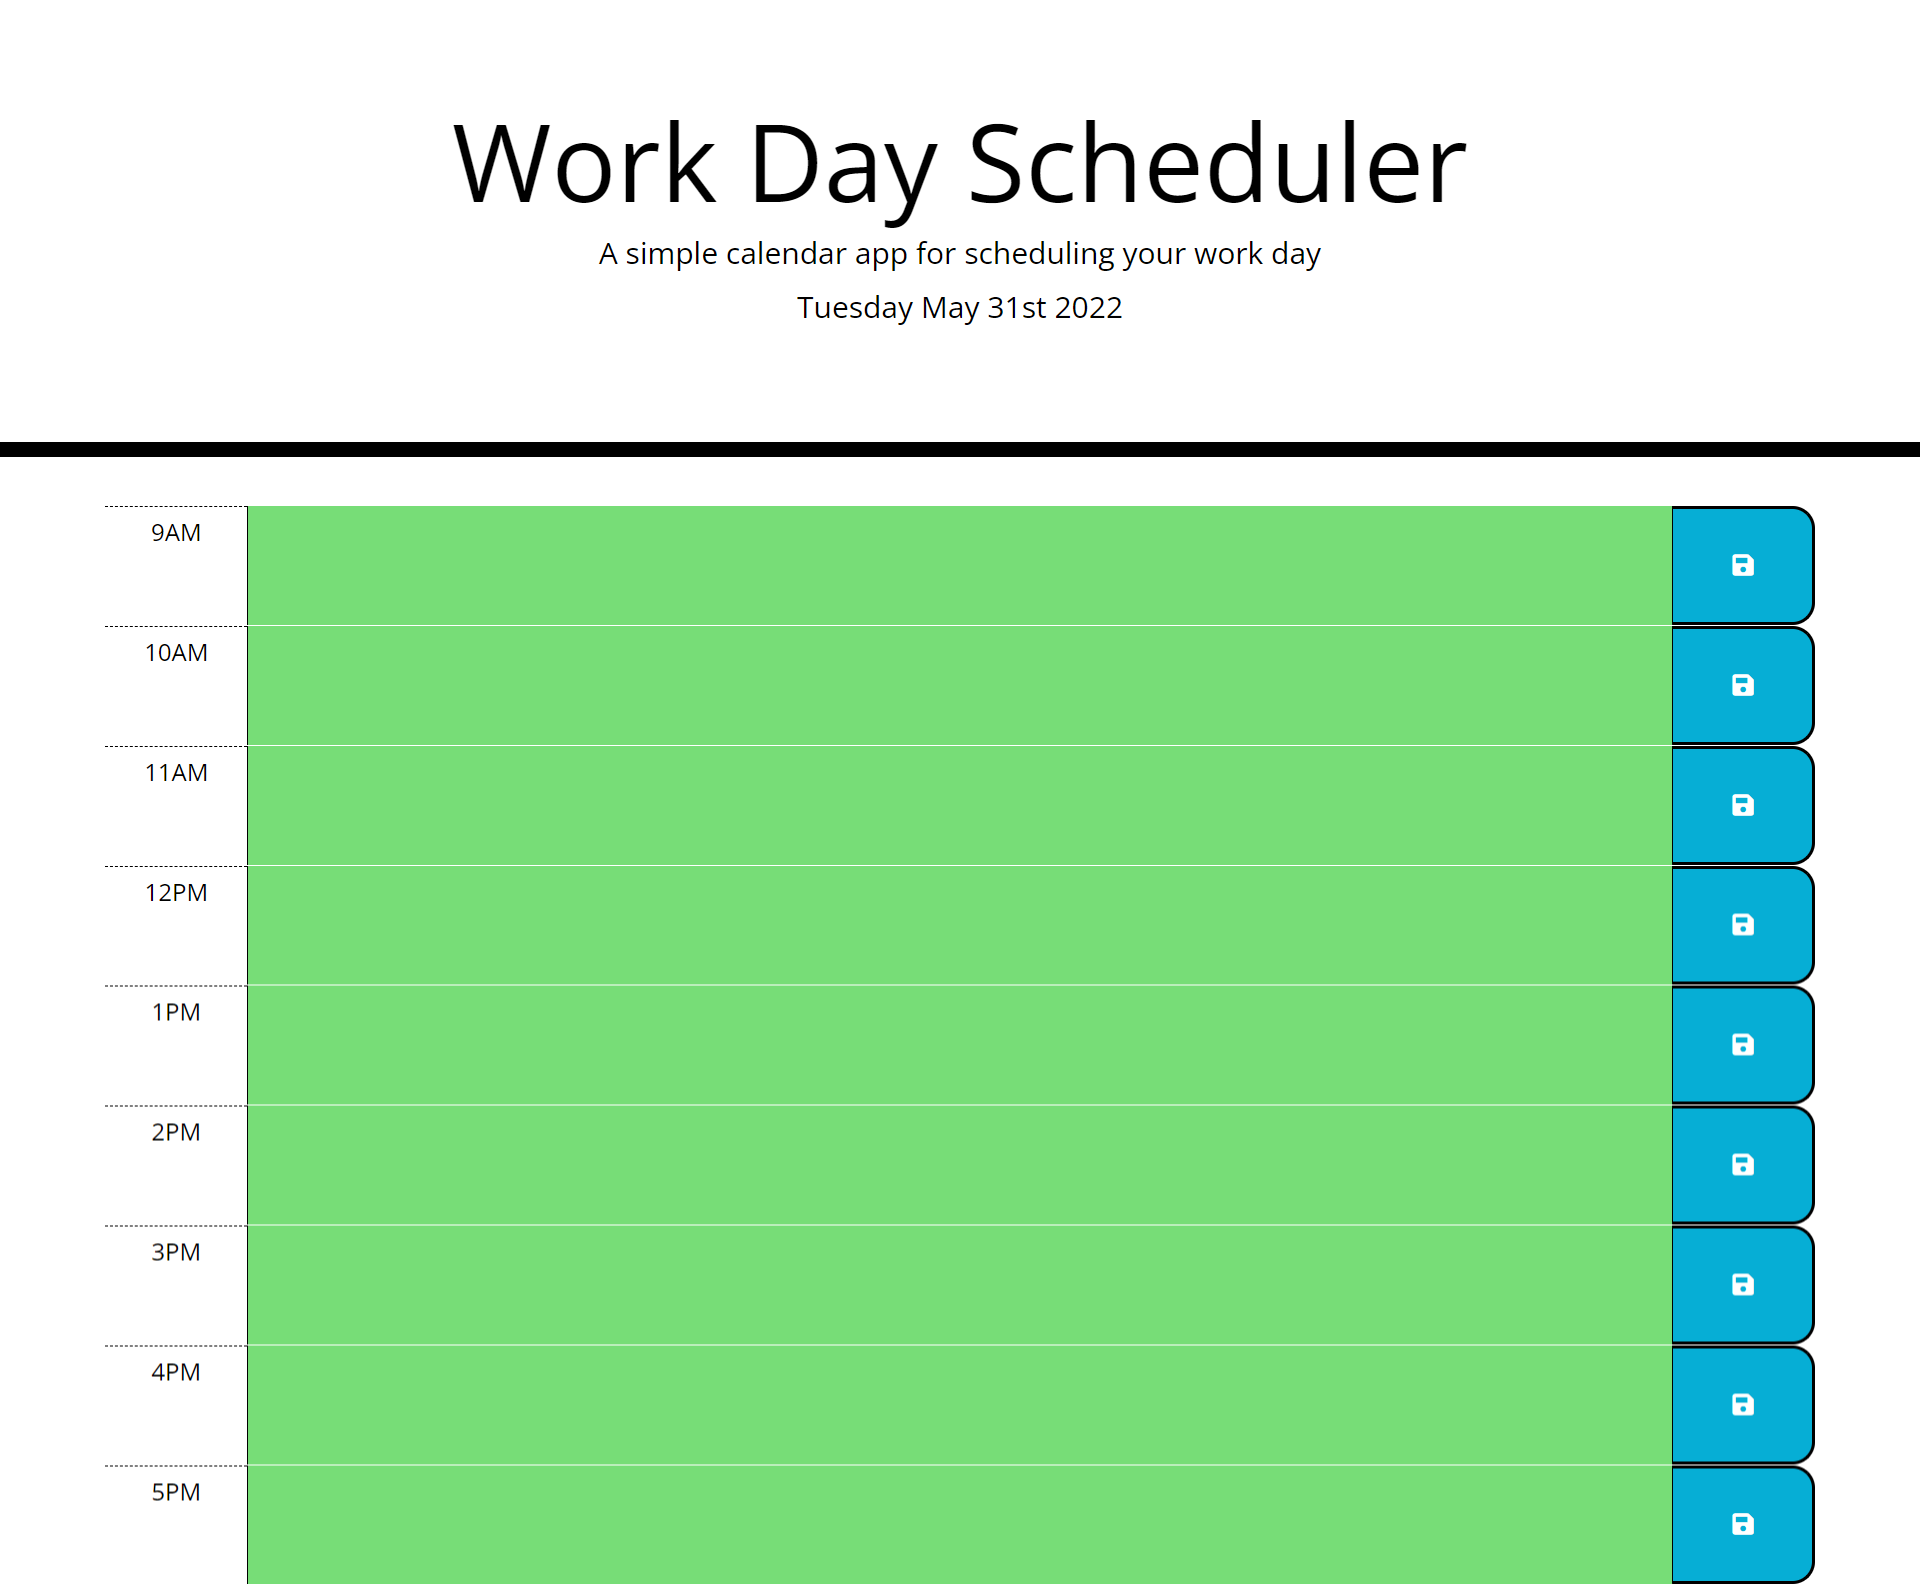
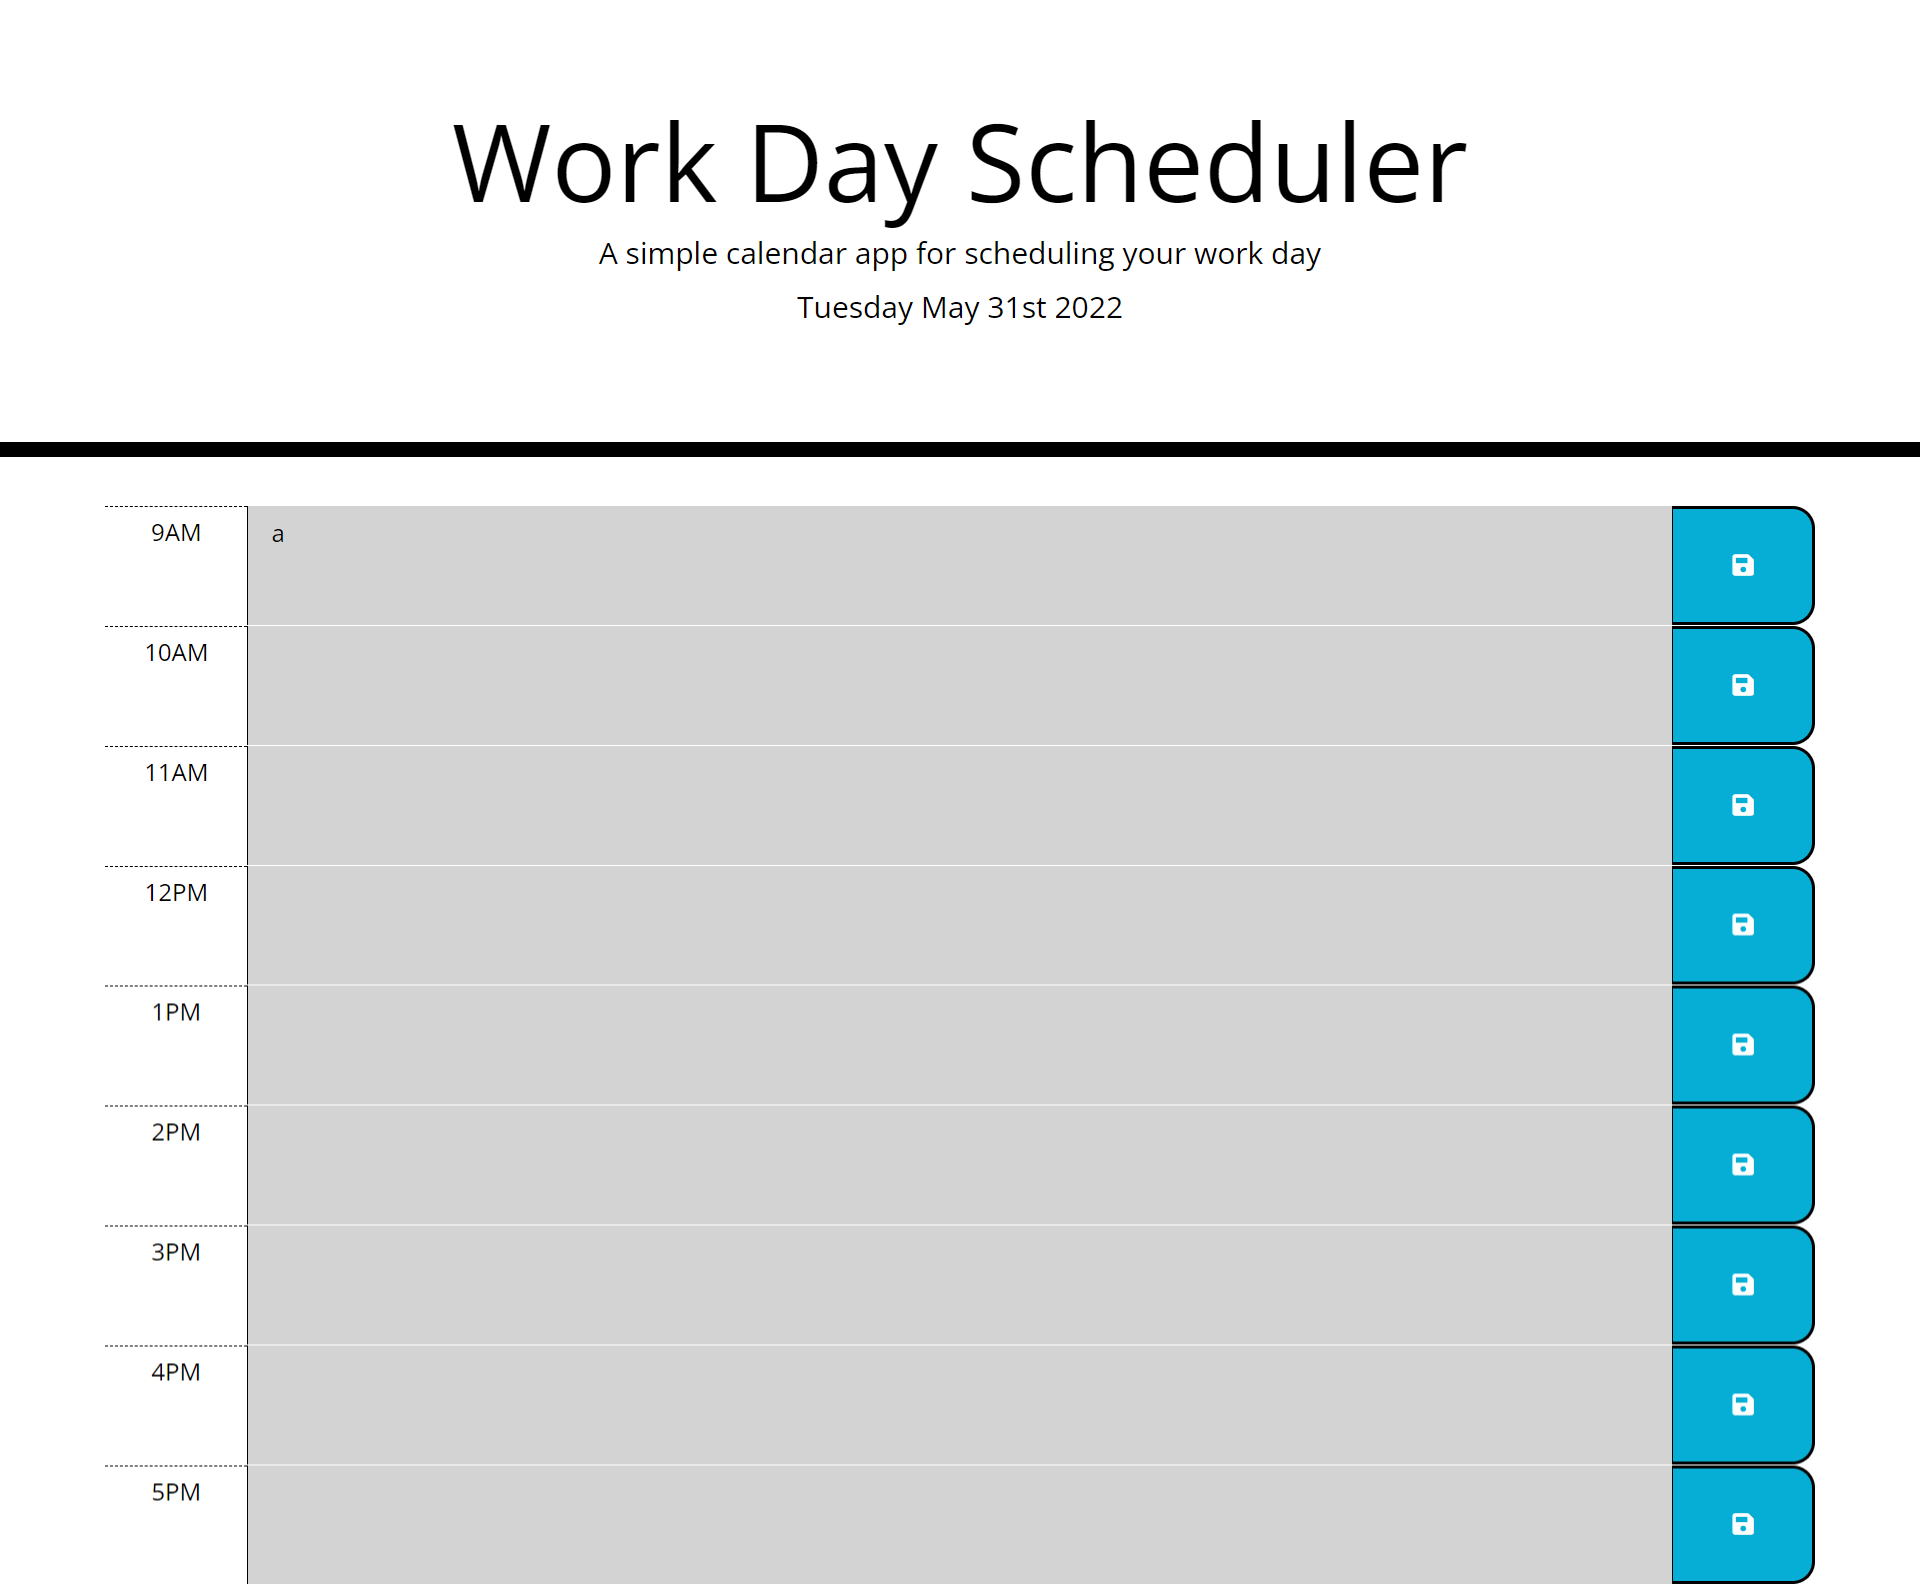
fixed read.me image and did final touches

diff --git a/script.js b/script.js
@@ -19,10 +19,10 @@ function timeBlocks() {
 
         if (currentHour > hour) {
             $(this).addClass('future');
-        } else if (currentHour < hour) {
-            $(this).addClass('past');
-        } else {
+        } else if (currentHour === hour) {
             $(this).addClass('present');
+        } else {
+            $(this).addClass('past');
         }
     })
 };

diff --git a/style.css b/style.css
@@ -6,7 +6,6 @@ body {
   
   textarea {
     background: transparent;
-    background-color: #77dd77;
     border: none;
     resize: none;
     color: #000000;
